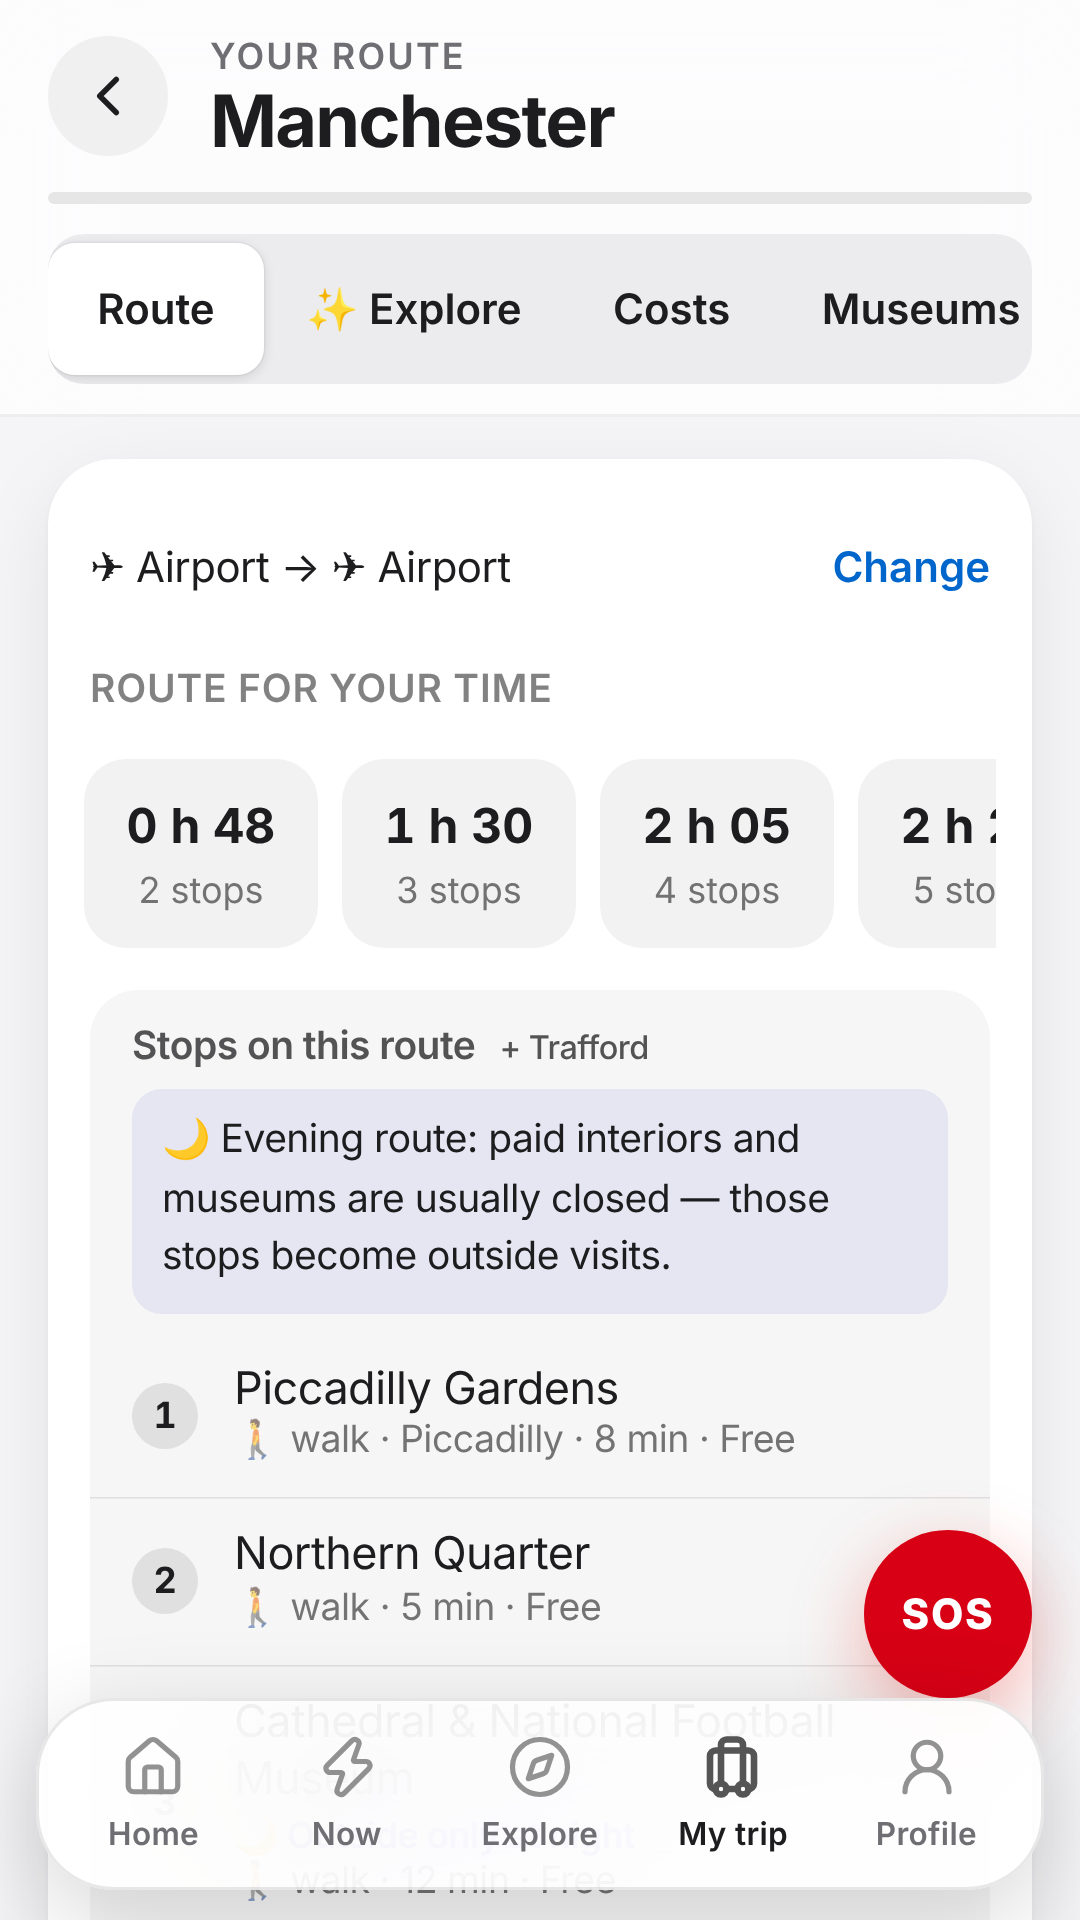
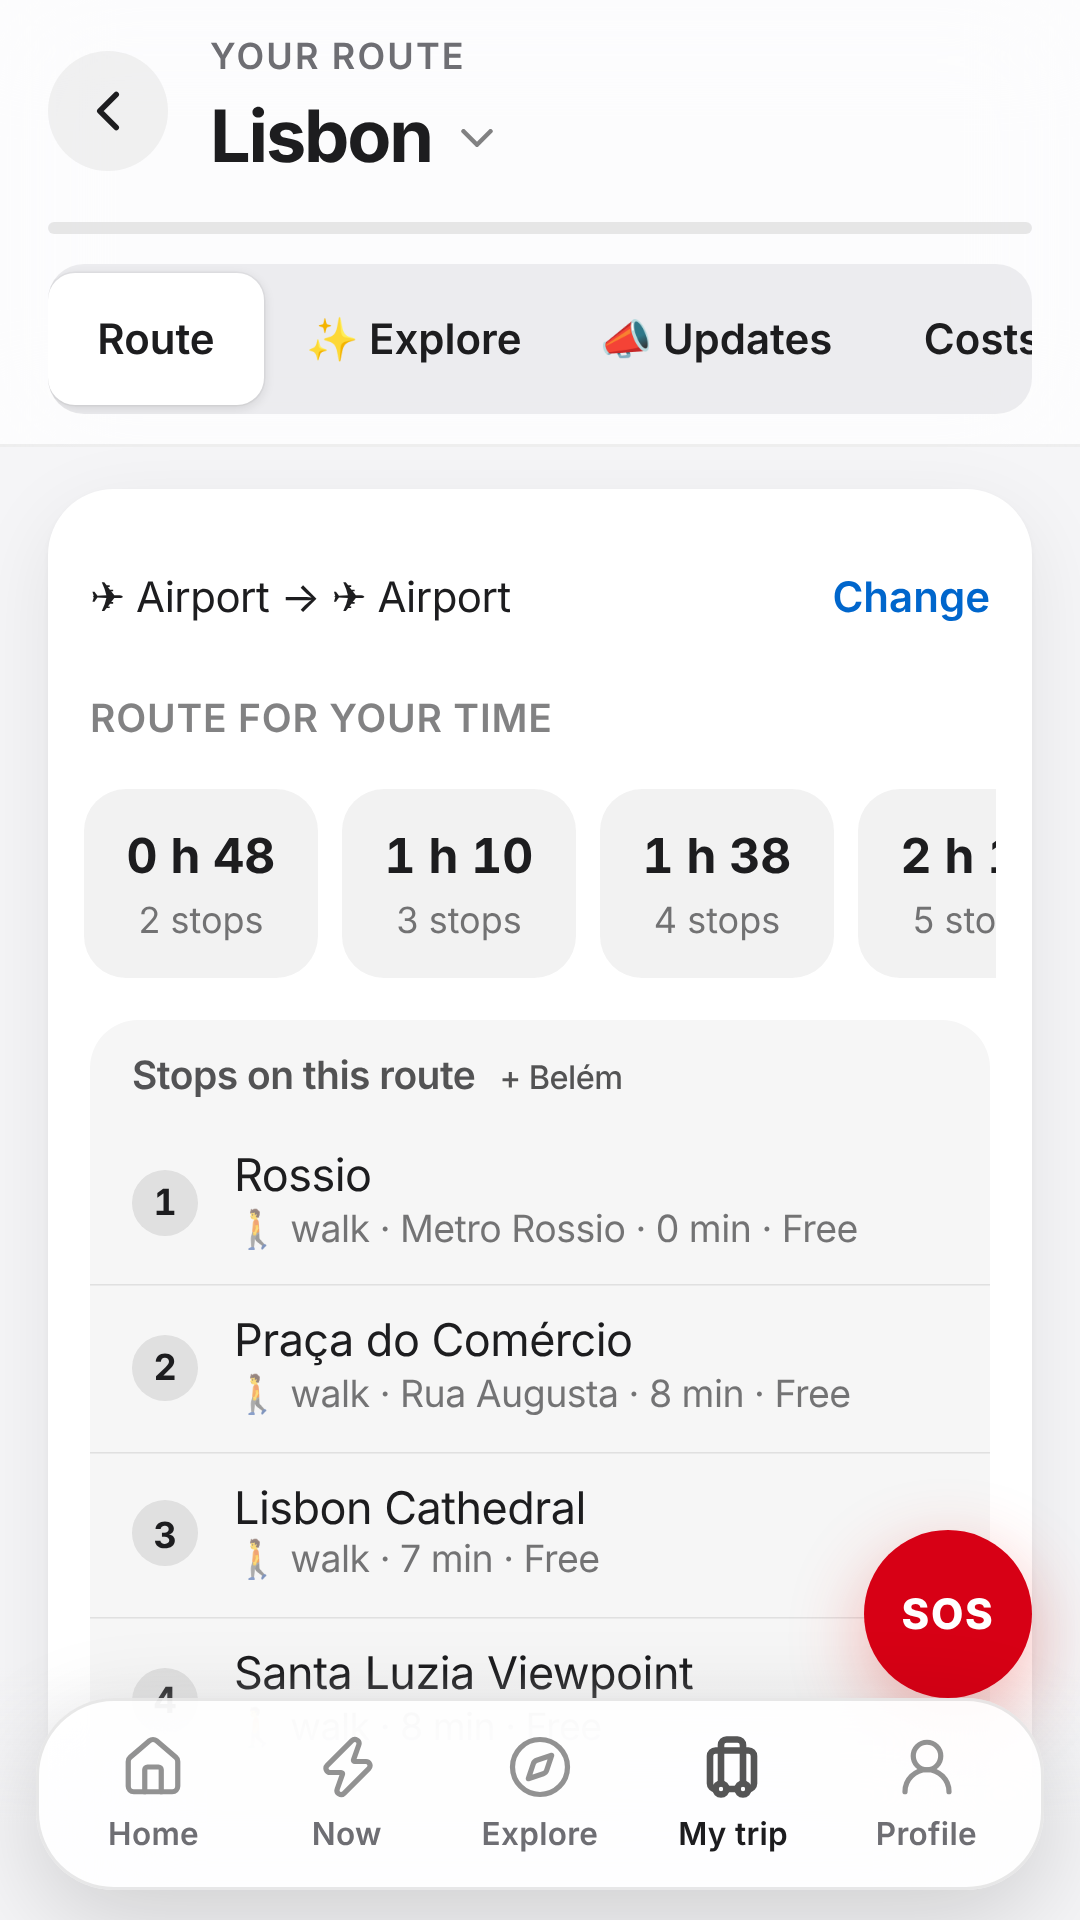
Google Play: listing says 62 cities; new phone screenshots (en/pt, 1080x1920, app mode, no prices)
Claude-Session: https://claude.ai/code/session_01PR7saMYC4PrT9XRQcrvY9n

diff --git a/store/play-store.md b/store/play-store.md
@@ -1,6 +1,6 @@
 # Google Play — ficha da app VOYBU (copiar e colar no Play Console)
 
-Atualizado: 26/10/2026. Antes de submeter, confirme com as regras em vigor do Google Play.
+Atualizado: 30/10/2026. Antes de submeter, confirme com as regras em vigor do Google Play.
 
 ## Regras que a app já cumpre
 - **Pagamentos:** dentro da app Android/iPhone não se vendem passes nem planos pagos e não se mostram preços nem ligações para comprar (regra de pagamentos do Google Play). Quem já tem um passe entra com o mesmo email e usa-o na app. As reservas de guias e de negócios (serviços físicos) podem usar a Stripe.
@@ -42,7 +42,7 @@ O que encontra na app:
 • Diário de viagem, memórias com fotos e estatísticas das suas viagens
 • Comunidade de viajantes e guias locais (opcional)
 
-53 cidades em todos os continentes, informação com fonte e data, e privacidade por defeito: a localização é sempre opcional.
+62 cidades em todos os continentes, informação com fonte e data, e privacidade por defeito: a localização é sempre opcional.
 
 Já tem um passe VOYBU? Entre com o seu email e o roteiro abre logo.
 
@@ -70,7 +70,7 @@ In the app:
 • Travel diary, photo memories and your travel stats
 • Traveller community and local guides (optional)
 
-53 cities on every continent, information with its source and date, and privacy by default: location is always optional.
+62 cities on every continent, information with its source and date, and privacy by default: location is always optional.
 
 Already have a VOYBU pass? Sign in with your email and your route opens straight away.
 
@@ -81,7 +81,7 @@ Already have a VOYBU pass? Sign in with your email and your route opens straight
 - **Texto da página de programador (140):** EN "VOYBU helps travellers explore cities on their own: walking routes that fit your time, audio guides in 12 languages and always back on time." · PT "A VOYBU ajuda viajantes a explorar cidades sozinhos: roteiros a pé à medida do seu tempo, áudio-guia em 12 idiomas e regresso a horas."
 - **Imagem de destaque 1024×500:** `store/feature-graphic.png`
 - **Capturas do telemóvel (1080×1920, 9:16):** `store/screenshots/pt/` e `store/screenshots/en/` (7 cada, já no modo app, sem preços):
-  1. Início · 2. Modo Escala · 3. Página da cidade · 4. Roteiro · 5. Acabei de chegar (passo a passo) · 6. Perfil e as minhas viagens · 7. Planeador de dias
+  1. Início · 2. Modo Escala · 3. Página da cidade (Lisboa) · 4. Roteiro de Lisboa · 5. Acabei de chegar · 6. Roteiro de Londres · 7. Planeador de dias
 - As imagens são ilustrativas (README das imagens): não as apresente como fotografias de serviços reais.
 
 ## Segurança dos dados (Data safety)
